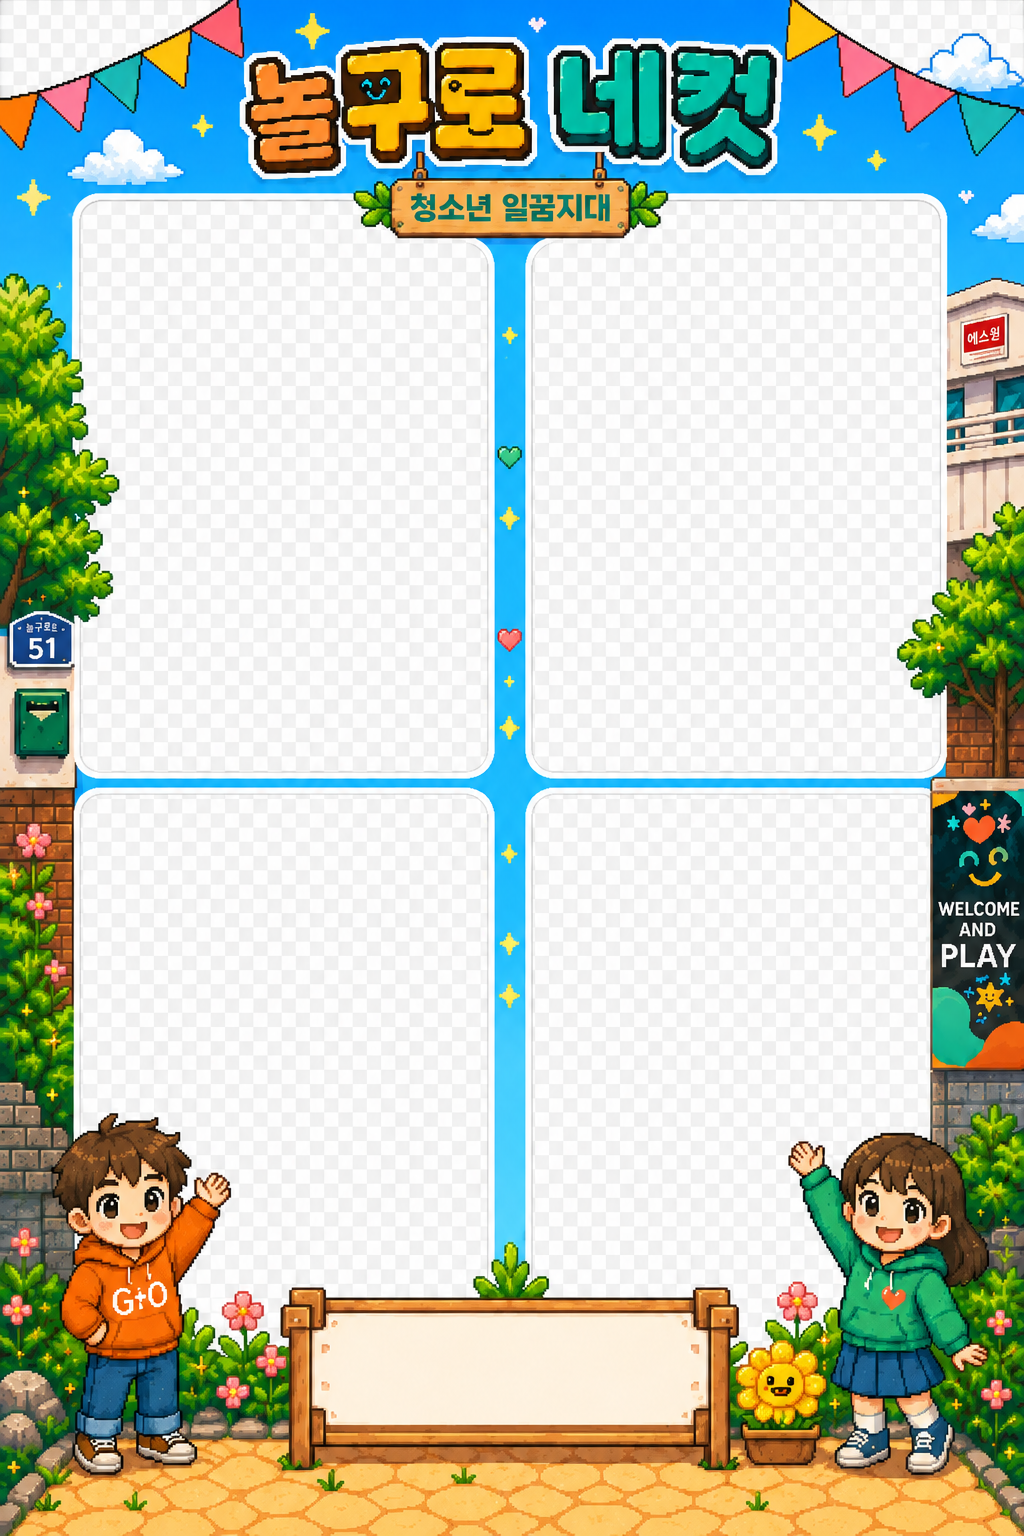
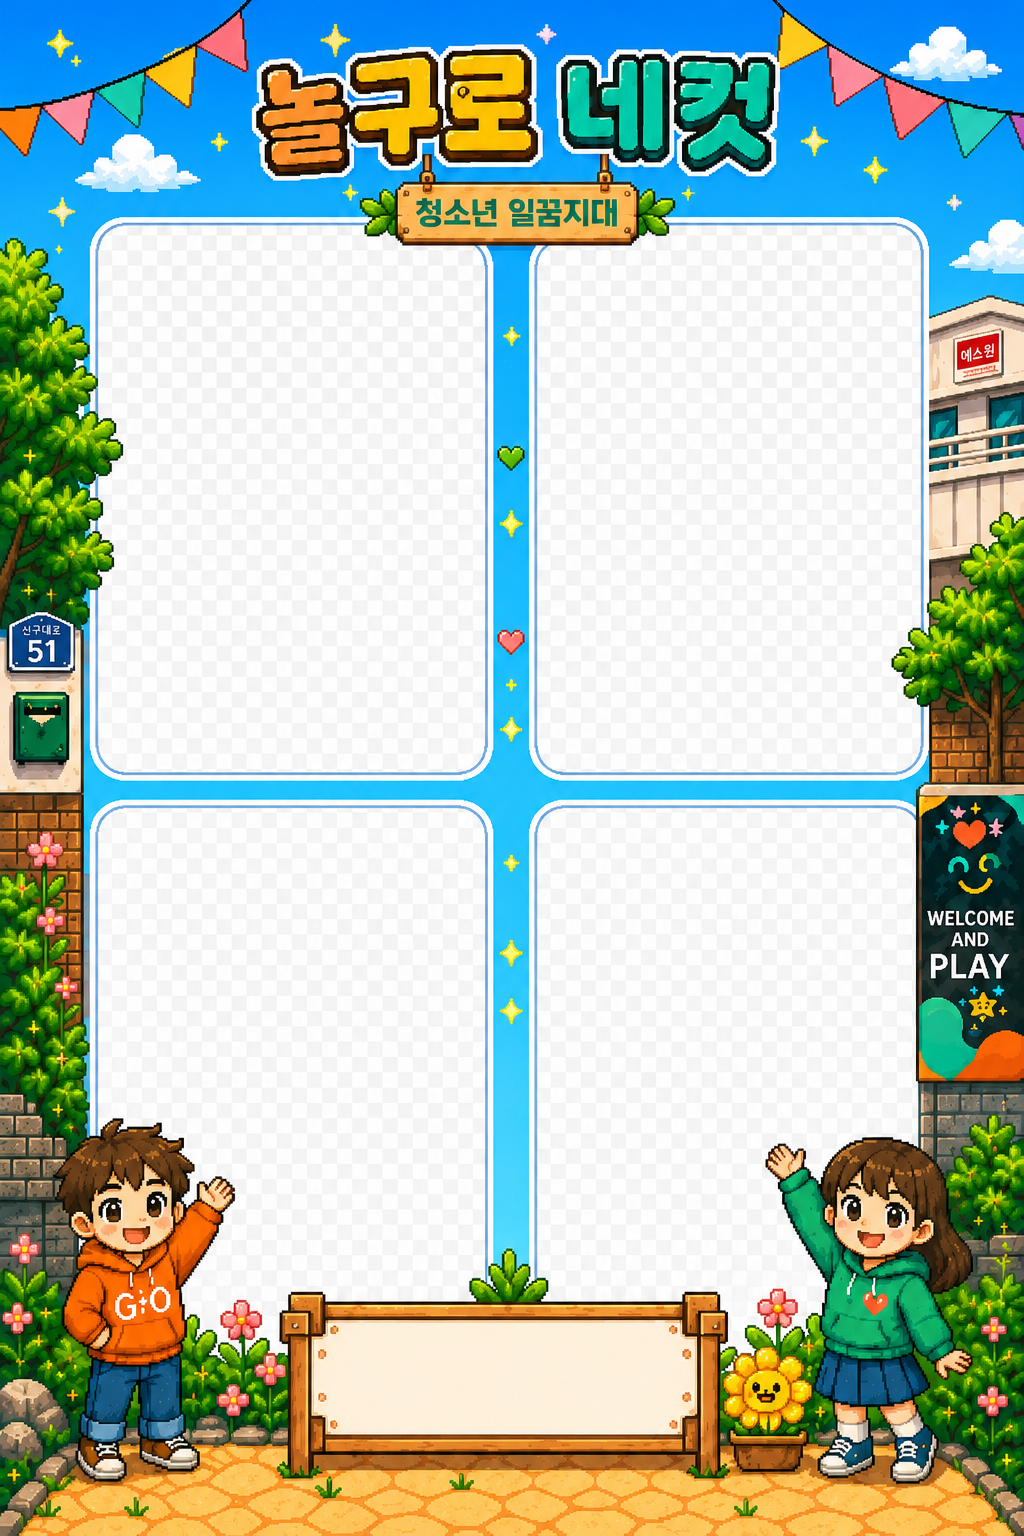
Apply final event frame overlay

diff --git a/src/App.jsx b/src/App.jsx
@@ -54,13 +54,13 @@ const EVENT_FRAMES = [
   {
     id: "noguroPixel",
     name: "놀구로 픽셀 프레임",
-    desc: "놀구로 건물과 픽셀 캐릭터가 들어간 이벤트 프레임",
+    desc: "놀구로 네컷 전용 이벤트 프레임",
     type: "image",
     image: "/frames/event/noguro-pixel-frame.png",
-    imageMode: "overlay",
     bg: "#ffffff",
     accent: "#ffffff",
     text: "#5b3415",
+    dateY: 1648,
     event: true,
   },
 ];
@@ -667,13 +667,62 @@ export default function App() {
     ctx.fillText("NOLGURO NECUT", canvasWidth / 2, 1725);
   }
 
+  function makeEventOverlayTransparent(sourceImage) {
+    const { canvasWidth, canvasHeight, slots } = FOUR_CUT_CONFIG;
+
+    const overlayCanvas = document.createElement("canvas");
+    overlayCanvas.width = canvasWidth;
+    overlayCanvas.height = canvasHeight;
+
+    const overlayCtx = overlayCanvas.getContext("2d");
+    overlayCtx.drawImage(sourceImage, 0, 0, canvasWidth, canvasHeight);
+
+    const imageData = overlayCtx.getImageData(0, 0, canvasWidth, canvasHeight);
+    const data = imageData.data;
+
+    slots.forEach((slot) => {
+      const startX = Math.max(0, Math.floor(slot.x));
+      const startY = Math.max(0, Math.floor(slot.y));
+      const endX = Math.min(canvasWidth, Math.ceil(slot.x + slot.width));
+      const endY = Math.min(canvasHeight, Math.ceil(slot.y + slot.height));
+
+      for (let y = startY; y < endY; y++) {
+        for (let x = startX; x < endX; x++) {
+          const index = (y * canvasWidth + x) * 4;
+          const red = data[index];
+          const green = data[index + 1];
+          const blue = data[index + 2];
+          const alpha = data[index + 3];
+
+          if (alpha === 0) continue;
+
+          const maxColor = Math.max(red, green, blue);
+          const minColor = Math.min(red, green, blue);
+          const average = (red + green + blue) / 3;
+
+          const isTransparentSlotBackground =
+            (maxColor - minColor < 45 && average > 145) ||
+            (red > 210 && green > 210 && blue > 210);
+
+          if (isTransparentSlotBackground) {
+            data[index + 3] = 0;
+          }
+        }
+      }
+    });
+
+    overlayCtx.putImageData(imageData, 0, 0);
+    return overlayCanvas;
+  }
+
   async function drawEventImageFrame(ctx, frame) {
     if (!frame.image) return false;
 
     try {
       const overlay = await loadImage(frame.image);
+      const overlayCanvas = makeEventOverlayTransparent(overlay);
       ctx.drawImage(
-        overlay,
+        overlayCanvas,
         0,
         0,
         FOUR_CUT_CONFIG.canvasWidth,
@@ -707,11 +756,7 @@ export default function App() {
     if (isImageEventFrame) {
       const success = await drawEventImageFrame(ctx, selectedFrame);
       if (!success) {
-        drawBasicFrameOverlay(ctx, {
-          ...selectedFrame,
-          accent: "#ffffff",
-          text: selectedFrame.text || "#5b3415",
-        });
+        drawBasicFrameOverlay(ctx, selectedFrame);
       }
     } else {
       drawBasicFrameOverlay(ctx, selectedFrame);
@@ -719,11 +764,12 @@ export default function App() {
 
     const today = new Date();
     const dateText = `${today.getFullYear()}.${String(today.getMonth() + 1).padStart(2, "0")}.${String(today.getDate()).padStart(2, "0")}`;
+    const dateY = selectedFrame.dateY || 1668;
 
     ctx.fillStyle = selectedFrame.text || "#ffffff";
     ctx.font = "bold 34px sans-serif";
     ctx.textAlign = "center";
-    ctx.fillText(dateText, canvas.width / 2, 1668);
+    ctx.fillText(dateText, canvas.width / 2, dateY);
 
     return canvas.toDataURL("image/png");
   }